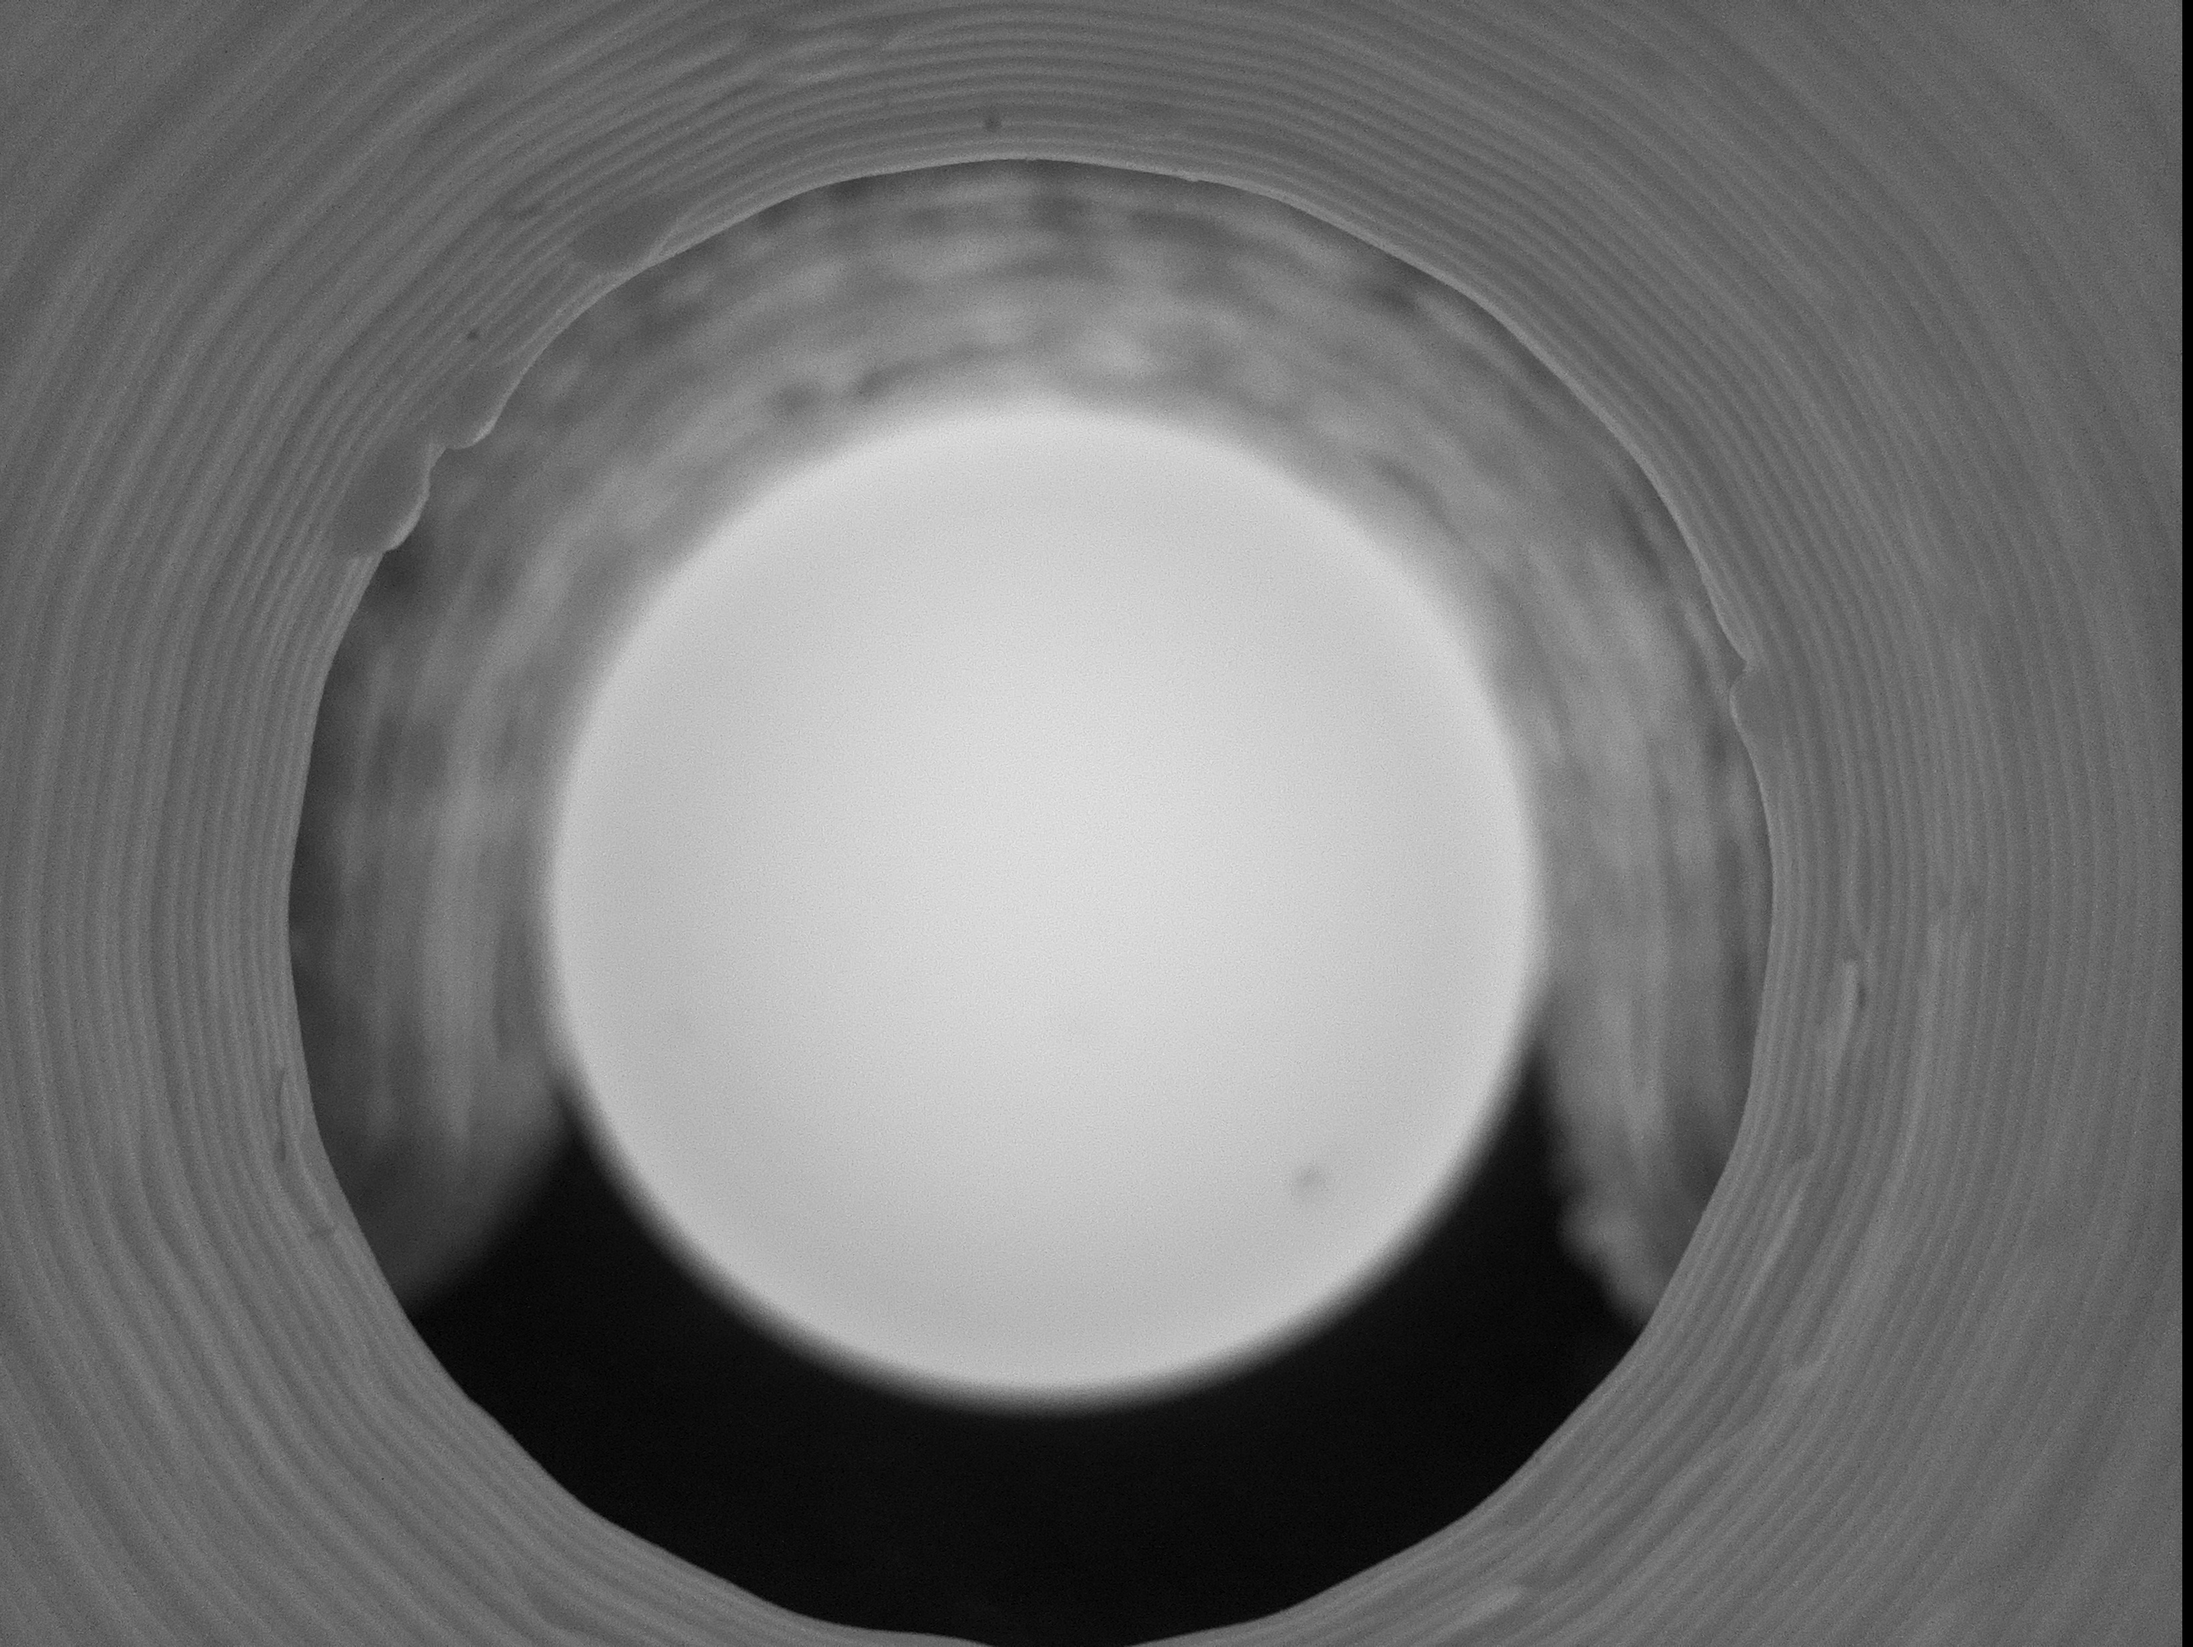
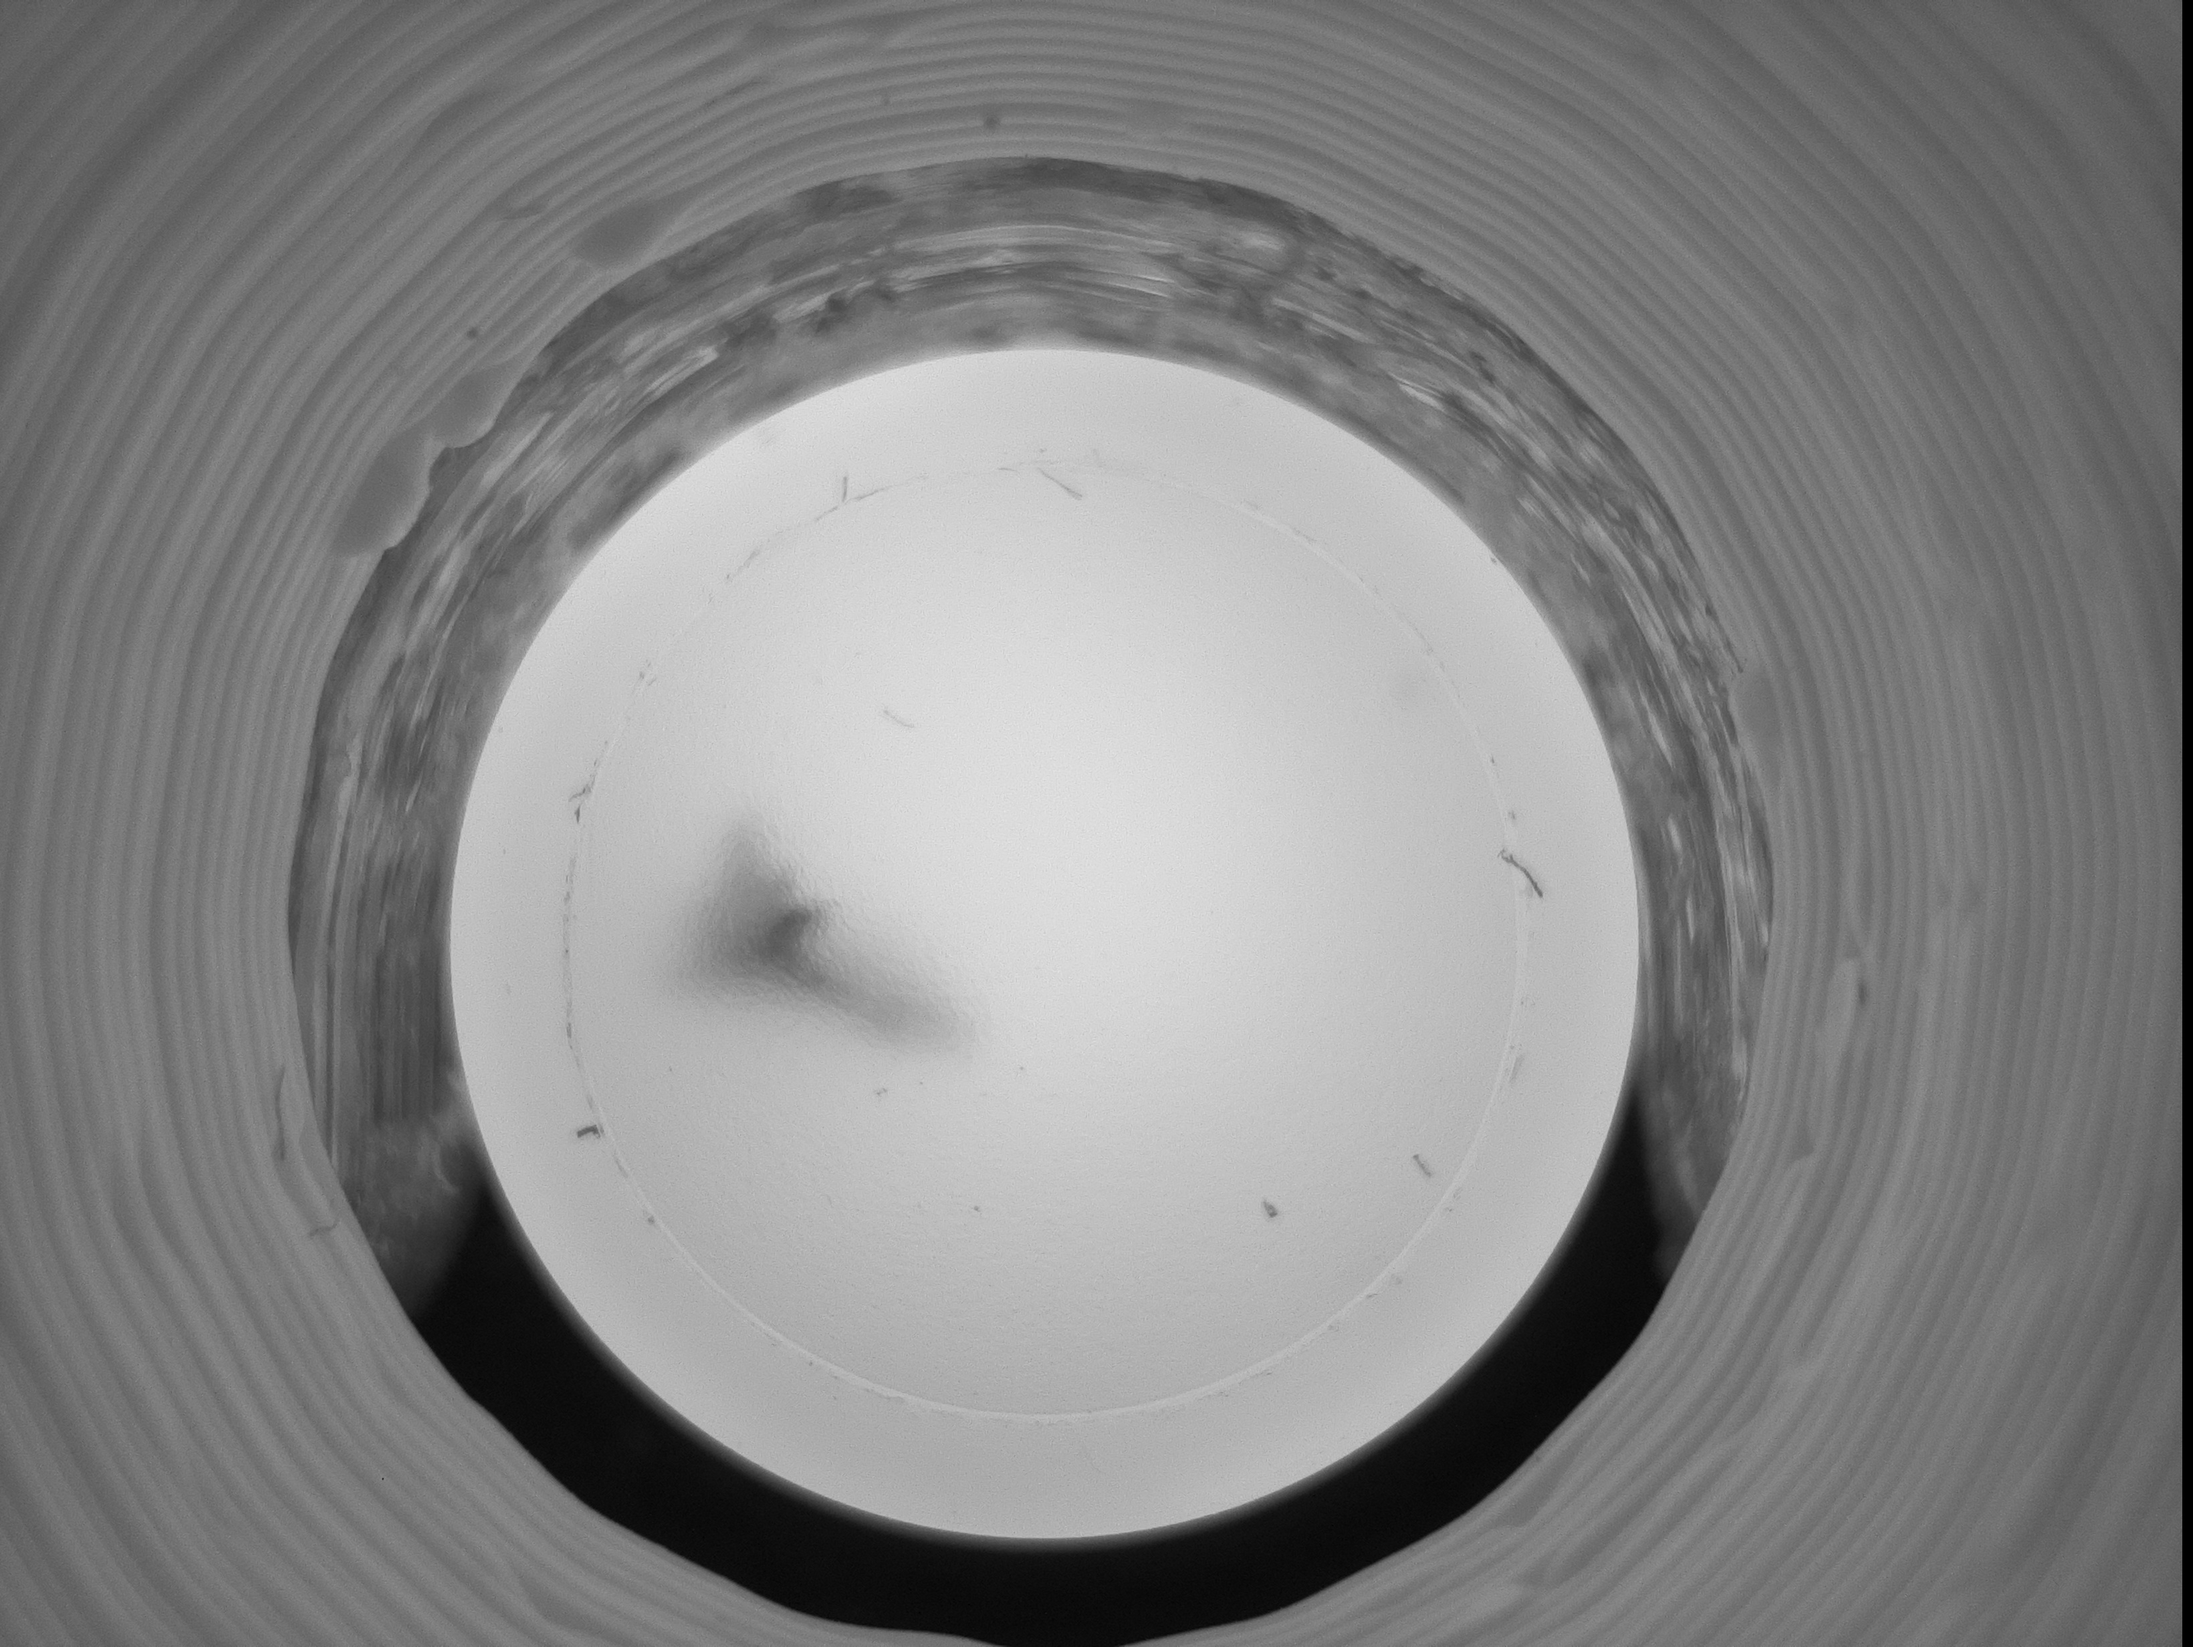
New pics

Changed region(s): [[0.0622, 0.0, 0.8396, 1.0], [0.311, 0.5, 0.4354, 0.6562]]

diff --git a/camera_adjusting/yuv_test.py b/camera_adjusting/yuv_test.py
@@ -11,8 +11,8 @@ picam2.preview_configuration.align()
 picam2.configure("preview")
 
 #picam2.set_controls({"AeConstraintMode": controls.AeConstraintModeEnum.Highlight})
-#picam2.set_controls({"AeEnable": 1})
-picam2.set_controls({"AwbMode": controls.AwbModeEnum.Fluorescent})
+picam2.set_controls({"AeEnable": 1})
+#picam2.set_controls({"AwbMode": controls.AwbModeEnum.Fluorescent})
 
 picam2.start()
 
@@ -23,7 +23,7 @@ try:
     img_preproc = im[:IMG_DIMS[1], :IMG_DIMS[0]]
     img_preproc = cv2.resize(img_preproc, (IMG_DIMS[0], IMG_DIMS[1]))
     # Save the image using OpenCV
-    cv2.imwrite("fluresent.jpg", img_preproc)
+    cv2.imwrite("aeenable.jpg", img_preproc)
 
 finally:
     # Release resources
